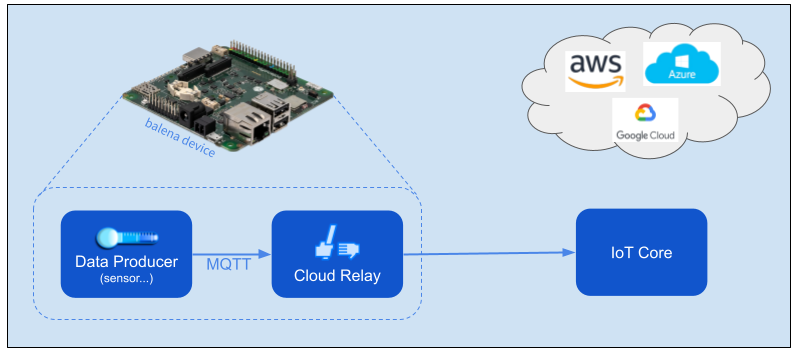
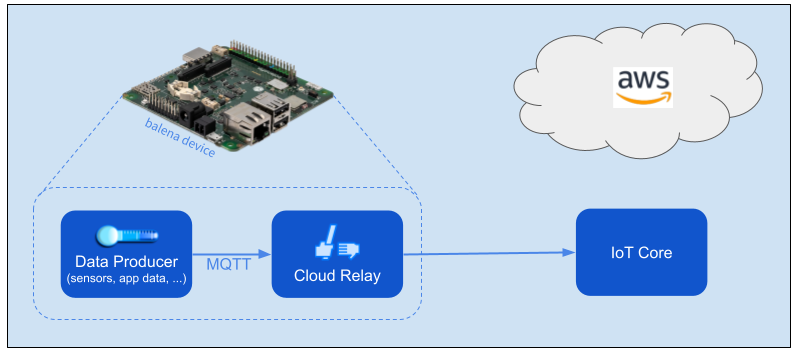
Add balena variables for local and cloud MQTT topics
Change-type: patch

diff --git a/index.js b/index.js
@@ -51,13 +51,21 @@ async function provision(uuid) {
 
 /** Connects and subscribes to local MQTT topic. */
 async function connectLocal() {
+    if (!process.env.PRODUCER_TOPIC) {
+        process.env.PRODUCER_TOPIC = 'sensors'
+    }
+
     localMqtt = await mqtt.connectAsync('mqtt://127.0.0.1')
     console.log("Connected to mqtt://127.0.0.1")
-    await localMqtt.subscribe('sensors', { qos: 1 })
+    await localMqtt.subscribe(process.env.PRODUCER_TOPIC, { qos: 1 })
 }
 
 /** Connects to cloud provider MQTT. */
 function connectCloud() {
+    if (!process.env.CLOUD_DATA_TOPIC) {
+        process.env.CLOUD_DATA_TOPIC = 'sensors'
+    }
+
     awsMqtt = awsIot.device({
         privateKey: Buffer.from(process.env.AWS_PRIVATE_KEY, 'base64'),
         clientCert: Buffer.from(process.env.AWS_CERT, 'base64'),
@@ -79,7 +87,7 @@ async function start() {
 
             localMqtt.on('message', function (topic, message) {
                 //console.log(message.toString())
-                awsMqtt.publish('sensors', message)
+                awsMqtt.publish(process.env.CLOUD_DATA_TOPIC, message)
             })
 
         } else {

diff --git a/README.md b/README.md
@@ -4,7 +4,7 @@
 
 ![Overview](overview.png)
 
-The cloud relay accepts application data via MQTT and relays it to a cloud provider's IoT Core facility. You only need to provide the data, and the cloud relay takes care of messaging with the cloud provider for you. Works with the [balena-aws-lambda](https://github.com/balena-io-examples/balena-aws-lambda) utility to automate device provisioning to AWS.
+The cloud relay accepts application data via MQTT and relays it to a cloud provider's IoT Core facility. You only need to provide the data, and the cloud relay takes care of messaging with the cloud provider. Cloud relay also uses the [balena-aws-lambda](https://github.com/balena-io-examples/balena-aws-lambda) utility to securely automate device provisioning to AWS IoT Core.
 
 ## Getting Started
 
@@ -21,7 +21,7 @@ Finally push the docker-compose script to the balena builders, substituting your
     balena push <myFleet>
 ```
 
-After the automated provisioning, you should see data flowing through the cloud relay to AWS, like the balenaCloud log display below.
+After the automated cloud provisioning, you should see data flowing through the cloud relay to AWS, like the log output below.
 
 ```
 sensor  publishing sample: {} {'short_uuid': 'ab24d4b', 'quality_value': '70', 'quality_max': '70', 'signal_level': '-39'}
@@ -30,11 +30,17 @@ sensor  publishing sample: {} {'short_uuid': 'ab24d4b', 'quality_value': '70', '
 
 ## Configuration
 
-Define these required balena fleet variables, which are shared by all devices.
+**Required** balena fleet variables
 
 |  Name            | Value                                                                         | Notes                                                                            |
 |------------------|-------------------------------------------------------------------------------|----------------------------------------------------------------------------------|
-| AWS_DATA_ENDPOINT| xxxxxxxxxxxxxx-ats.iot.us-east-1.amazonaws.com                                | Host name to receive data. See *Settings* in the AWS IoT console.                |
-|  PROVISION_URL   | https://xxxxxxxxxx.execute-api.us-east-1.amazonaws.com/resinLambda-development| URL to contact the AWS Lambda provisioning function created by balena-aws-lambda.|
+| AWS_DATA_ENDPOINT| like `xxxxxxxx-ats.iot.us-east-1.amazonaws.com                               ` | Host name to receive data. See *Settings* in the AWS IoT console.                |
+|  PROVISION_URL   | like `https://xxxxxxxx.execute-api.us-east-1.amazonaws.com/resinLambda-development` | URL to contact the AWS Lambda provisioning function created by balena-aws-lambda.|
 
+**Optional** balena fleet or device variables, if not using default value
+
+|  Name            | Value                                                                         | Notes                                                                            |
+|------------------|-------------------------------------------------------------------------------|----------------------------------------------------------------------------------|
+| PRODUCER_TOPIC| default `sensors` | Message topic from data producer |
+| CLOUD_DATA_TOPIC| default `sensors` | Message topic for data to cloud |
 
